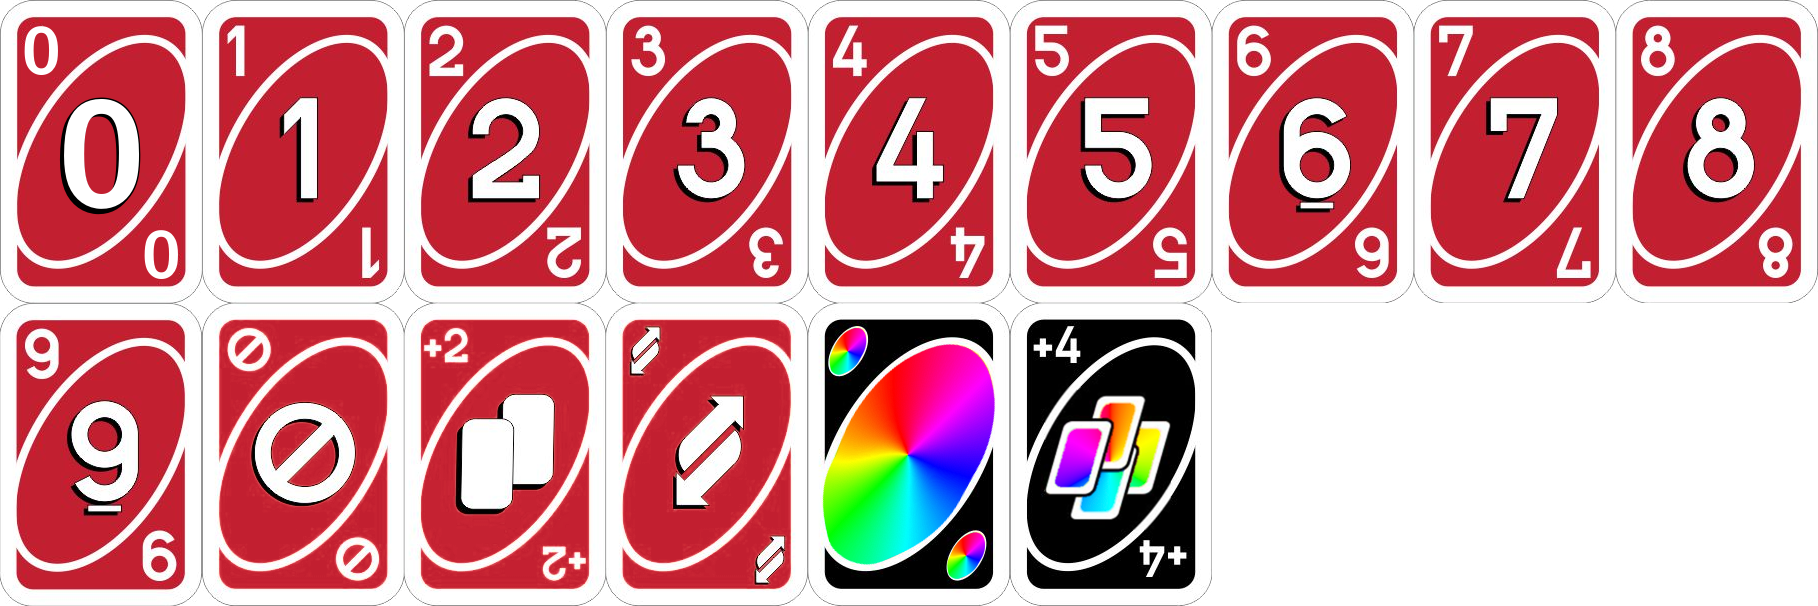
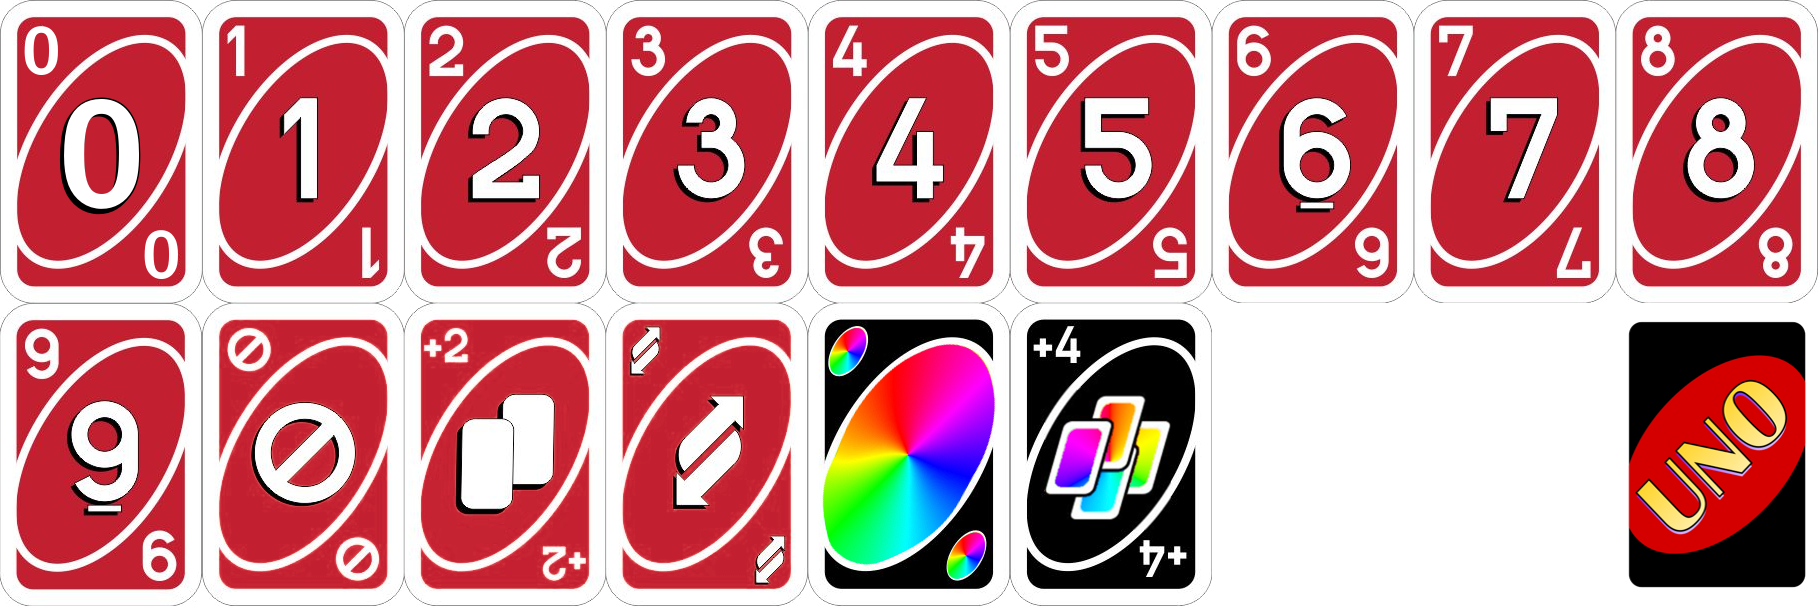
FEATURE: Cards can now be flipped face down. The current face down image is, however, a placeholder

Changed region(s): [[0.8933, 0.505, 1.0, 0.9802]]

diff --git a/card.py b/card.py
@@ -20,6 +20,8 @@ class Card:
         self.font_size = config.get("text_size")
         self.font = gui.font.Font(family="Lucida Console", size=config.get("text_size"), weight="bold")
 
+        self.face_up = True
+
         self._get_image(color, value)
 
         self._initial_draw(x, y)
@@ -35,7 +37,8 @@ class Card:
         self._photo_image = ImageTk.PhotoImage(self.image)
         self.id[0] = gui.c.create_image(self.x-self.width/2,self.y-self.height/2,image=self._photo_image,anchor="nw")
 
-        self.id[1] = gui.c.create_text(*self.get_text_coords(self.x,self.y),font=self.font,text=self.hex_code,fill="white")
+        if self.face_up:
+            self.id[1] = gui.c.create_text(*self.get_text_coords(self.x,self.y),font=self.font,text=self.hex_code,fill="white")
     
     def get_text_coords(self,x,y):
         text_x, text_y = config.get("TEXT_PLACEMENT")
@@ -144,11 +147,21 @@ class Card:
             return
         self.hand.remove_card(self)
         self.hand = None
+    
+    def flip(self):
+        self.face_up = not self.face_up
+        if self.face_up:
+            self._get_image(self.color,self.value)
+        else:
+            self.image = gui.card_tileset.get(8,1)
+        self.image = imaging.scale(self.image,self.scale_value)
+        self.redraw()
 
     def _get_image(self, color, value):
         self.tileset_coords = gui.card_tileset.index_to_coords(value)
         self.color = color
         self.value = value
+        
         if value in config.get("wild_cards"):
             self.color = 0
             self.image = gui.card_tileset.get(*self.tileset_coords)

diff --git a/game.py b/game.py
@@ -140,7 +140,10 @@ def check_for_highlight(hand_card:card.Card):
 
 temp_hand: list[card.Card] = []
 for _ in range(9):
-    temp_hand.append(card.Card(*deck.select_card(fallback=True),hand=player_hand))
+    _card = card.Card(*deck.select_card(fallback=True),hand=player_hand)
+    if random.randint(0,1):
+        _card.flip()
+    temp_hand.append(_card)
     deck.add_used_card(temp_hand[-1])
 
 temp_hand.sort()
